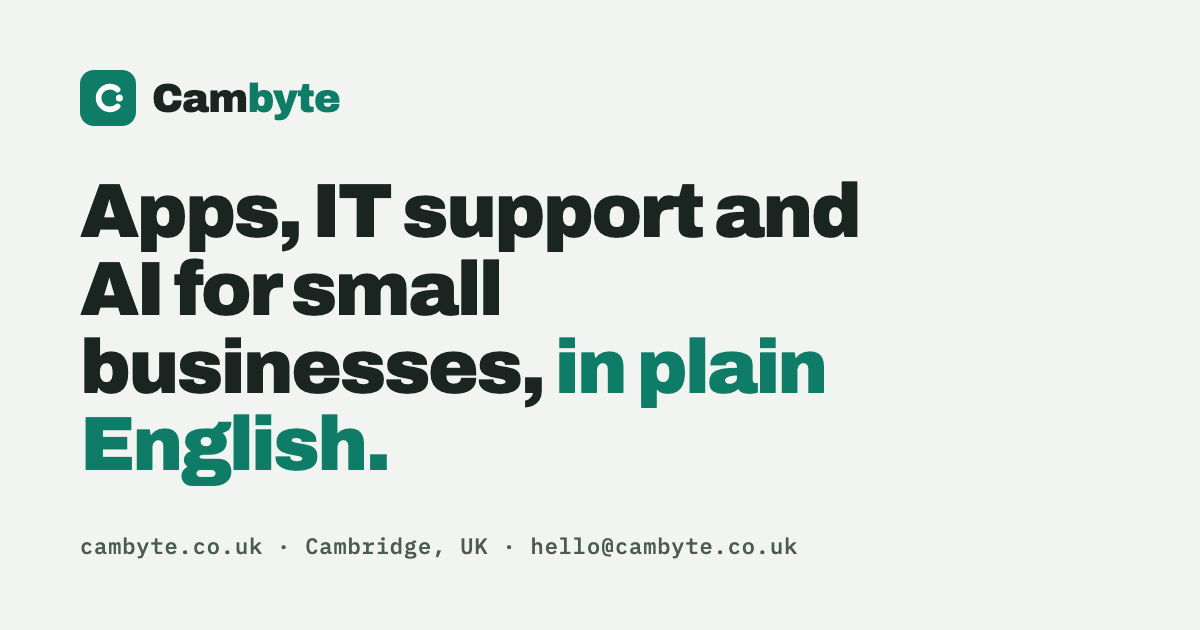
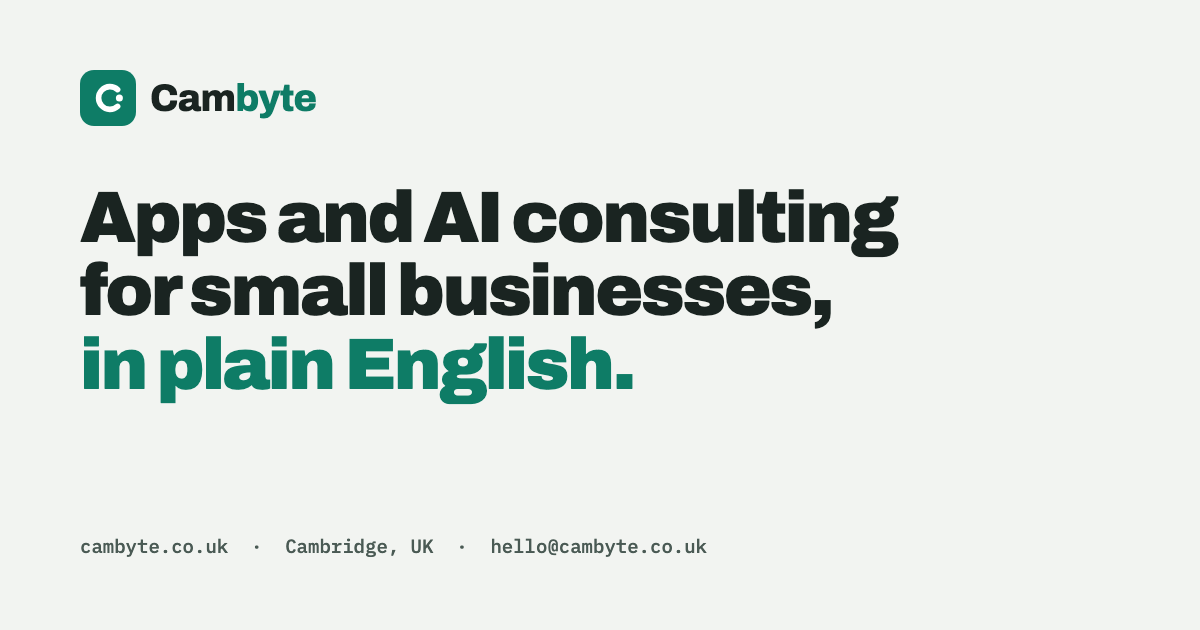
Drop IT support service; focus site on app development and AI consulting
- Remove IT support & setup card, hero/meta/JSON-LD mentions, repair creds
- Services grid 3 → 2 columns; copy adjusted ("Two things, done properly")
- Regenerate OG image without IT support line (source: docs/og-source.html)
- README: hosting note corrected to GitHub Pages

Changed region(s): [[0.0617, 0.2714, 0.7708, 0.7841], [0.0617, 0.8444, 0.6783, 0.9048], [0.1233, 0.1206, 0.3083, 0.2111]]

diff --git a/index.html b/index.html
@@ -3,12 +3,12 @@
 <head>
 <meta charset="UTF-8">
 <meta name="viewport" content="width=device-width, initial-scale=1">
-<title>Cambyte — Apps, IT support and AI for small businesses in Cambridge</title>
-<meta name="description" content="Cambyte builds iOS and Android apps, fixes and sets up IT, and helps small businesses in Cambridge put AI to work. Run by Roberto Pires Almeida, independent developer with an app live on the App Store.">
+<title>Cambyte — App development and AI consulting for small businesses in Cambridge</title>
+<meta name="description" content="Cambyte builds iOS and Android apps and helps small businesses in Cambridge put AI to work. Run by Roberto Pires Almeida, independent developer with an app live on the App Store.">
 <link rel="canonical" href="https://cambyte.co.uk/">
 <meta property="og:type" content="website">
-<meta property="og:title" content="Cambyte — Apps, IT support and AI, Cambridge UK">
-<meta property="og:description" content="App development, IT support and setup, and practical AI consulting for small businesses. Plain English, fixed quotes.">
+<meta property="og:title" content="Cambyte — Apps and AI consulting, Cambridge UK">
+<meta property="og:description" content="App development and practical AI consulting for small businesses. Plain English, fixed quotes.">
 <meta property="og:url" content="https://cambyte.co.uk/">
 <meta property="og:image" content="https://cambyte.co.uk/assets/img/og.png">
 <meta name="twitter:card" content="summary_large_image">
@@ -26,7 +26,7 @@
   "name": "Cambyte",
   "url": "https://cambyte.co.uk/",
   "email": "hello@cambyte.co.uk",
-  "description": "App development, IT support and AI consulting for small businesses in Cambridge, UK.",
+  "description": "App development and AI consulting for small businesses in Cambridge, UK.",
   "founder": {"@type": "Person", "name": "Roberto Pires Almeida"},
   "address": {"@type": "PostalAddress", "addressLocality": "Cambridge", "addressCountry": "GB"},
   "areaServed": "Cambridge, UK",
@@ -60,9 +60,9 @@
 
 <section class="hero">
   <div class="wrap">
-    <p class="eyebrow">Cambridge, UK · Apps · IT · AI</p>
+    <p class="eyebrow">Cambridge, UK · Apps · AI</p>
     <h1>Technology that works for your business, <em>not against it.</em></h1>
-    <p class="lede">Cambyte builds mobile apps, keeps your computers and network running, and helps you use AI for the boring parts of the job. One person you can actually talk to, in plain English, with a fixed quote before any work starts.</p>
+    <p class="lede">Cambyte builds mobile apps and helps you use AI for the boring parts of the job. One person you can actually talk to, in plain English, with a fixed quote before any work starts.</p>
     <div class="actions">
       <a class="btn btn-primary" href="#contact">Get in touch
         <svg width="18" height="18" viewBox="0 0 24 24" fill="none" stroke="currentColor" stroke-width="2.2" stroke-linecap="round" stroke-linejoin="round"><path d="M5 12h14M13 6l6 6-6 6"/></svg>
@@ -71,7 +71,7 @@
     </div>
     <ul class="trust">
       <li>App live on the App Store</li>
-      <li>Google IT Support &amp; Cybersecurity certified</li>
+      <li>Google Cybersecurity certified</li>
       <li>BSc Computer Science, University of London</li>
     </ul>
   </div>
@@ -81,10 +81,10 @@
   <div class="wrap">
     <div class="sec-head">
       <p class="eyebrow">Services</p>
-      <h2>Three things, done properly.</h2>
-      <p>Whether you need an app built, a laptop fixed or a repetitive task automated, you deal with the same person from first chat to finished job.</p>
+      <h2>Two things, done properly.</h2>
+      <p>Whether you need an app built or a repetitive task automated, you deal with the same person from first chat to finished job.</p>
     </div>
-    <div class="grid grid-3">
+    <div class="grid grid-2">
       <article class="card">
         <div class="icon" aria-hidden="true"><svg viewBox="0 0 24 24" fill="none" stroke="currentColor" stroke-width="2" stroke-linecap="round" stroke-linejoin="round"><rect x="6" y="2" width="12" height="20" rx="2.5"/><path d="M11 18h2"/></svg></div>
         <h3>App development</h3>
@@ -95,16 +95,6 @@
           <li>Updates, bug fixes and store screenshots after launch</li>
         </ul>
         <div class="links"><a href="/apps/">From £1,500 · see app pricing</a></div>
-      </article>
-      <article class="card">
-        <div class="icon" aria-hidden="true"><svg viewBox="0 0 24 24" fill="none" stroke="currentColor" stroke-width="2" stroke-linecap="round" stroke-linejoin="round"><rect x="2" y="4" width="20" height="13" rx="2"/><path d="M8 21h8M12 17v4"/></svg></div>
-        <h3>IT support &amp; setup</h3>
-        <p>Macs, Windows PCs, Wi-Fi and the small-business essentials, set up right and kept running.</p>
-        <ul>
-          <li>Repairs, upgrades and hardware diagnostics</li>
-          <li>Microsoft 365, email, backups and new-starter setups</li>
-          <li>Security hardening, password managers and recovery plans</li>
-        </ul>
       </article>
       <article class="card">
         <div class="icon" aria-hidden="true"><svg viewBox="0 0 24 24" fill="none" stroke="currentColor" stroke-width="2" stroke-linecap="round" stroke-linejoin="round"><path d="M12 3l1.8 4.6L18.5 9l-4.7 1.4L12 15l-1.8-4.6L5.5 9l4.7-1.4z"/><path d="M19 15l.8 2.2L22 18l-2.2.8L19 21l-.8-2.2L16 18l2.2-.8z"/></svg></div>
@@ -192,7 +182,7 @@
       <div class="step">
         <span class="num">01</span>
         <h3>A free chat</h3>
-        <p>Tell me what is slow, broken or missing. Thirty minutes by phone, video or over coffee in Cambridge. No obligation.</p>
+        <p>Tell me what you want to build or automate. Thirty minutes by phone, video or over coffee in Cambridge. No obligation.</p>
       </div>
       <div class="step">
         <span class="num">02</span>
@@ -201,7 +191,7 @@
       </div>
       <div class="step">
         <span class="num">03</span>
-        <h3>Build, fix, support</h3>
+        <h3>Build, ship, support</h3>
         <p>Regular updates in plain English while the work happens, a proper handover at the end, and ongoing support if you want it.</p>
       </div>
     </div>
@@ -215,12 +205,12 @@
       <div>
         <p class="eyebrow">About</p>
         <h2>Hi, I'm Roberto.</h2>
-        <p>I run Cambyte from Cambridge. I'm an independent developer with an app on the App Store, a Computer Science student at the University of London, and someone who has spent over ten years in public-sector roles explaining complicated things to people who just needed them sorted. That is the job here too: understand the problem, fix it properly, explain it clearly.</p>
+        <p>I run Cambyte from Cambridge. I'm an independent developer with an app on the App Store, a Computer Science student at the University of London, and someone who has spent over ten years in public-sector roles explaining complicated things to people who just needed them sorted. That is the job here too: understand the problem, build it properly, explain it clearly.</p>
         <p>I use AI tools every day to build and ship software faster, and I run my own local AI hardware, so when I recommend something it is because I have used it, not because it is fashionable.</p>
         <ul class="creds">
           <li><svg viewBox="0 0 24 24" fill="none" stroke="currentColor" stroke-width="2.2" stroke-linecap="round" stroke-linejoin="round" aria-hidden="true"><path d="M20 6L9 17l-5-5"/></svg>BSc Computer Science, University of London (Goldsmiths), specialising in Machine Learning &amp; AI</li>
-          <li><svg viewBox="0 0 24 24" fill="none" stroke="currentColor" stroke-width="2.2" stroke-linecap="round" stroke-linejoin="round" aria-hidden="true"><path d="M20 6L9 17l-5-5"/></svg>Google IT Support Professional Certificate and Google Cybersecurity Professional Certificate</li>
-          <li><svg viewBox="0 0 24 24" fill="none" stroke="currentColor" stroke-width="2.2" stroke-linecap="round" stroke-linejoin="round" aria-hidden="true"><path d="M20 6L9 17l-5-5"/></svg>Swift, Kotlin, Python, JavaScript, SQL; macOS, Windows and Linux; years of hands-on Mac and PC repair</li>
+          <li><svg viewBox="0 0 24 24" fill="none" stroke="currentColor" stroke-width="2.2" stroke-linecap="round" stroke-linejoin="round" aria-hidden="true"><path d="M20 6L9 17l-5-5"/></svg>Google Cybersecurity Professional Certificate</li>
+          <li><svg viewBox="0 0 24 24" fill="none" stroke="currentColor" stroke-width="2.2" stroke-linecap="round" stroke-linejoin="round" aria-hidden="true"><path d="M20 6L9 17l-5-5"/></svg>Swift, Kotlin, Python, JavaScript, SQL; macOS, Windows and Linux</li>
           <li><svg viewBox="0 0 24 24" fill="none" stroke="currentColor" stroke-width="2.2" stroke-linecap="round" stroke-linejoin="round" aria-hidden="true"><path d="M20 6L9 17l-5-5"/></svg>Based in Cambridge, UK. Full right to work, driving licence, own car.</li>
         </ul>
       </div>

diff --git a/docs/og-source.html b/docs/og-source.html
@@ -1,0 +1,16 @@
+<!DOCTYPE html><html lang="en-GB"><head><meta charset="UTF-8">
+<link href="https://fonts.googleapis.com/css2?family=Archivo:wght@800;900&family=IBM+Plex+Mono:wght@500&display=block" rel="stylesheet">
+<style>
+*{margin:0;padding:0;box-sizing:border-box}
+html,body{width:1200px;height:630px;overflow:hidden}
+body{background:#F2F4F1;color:#1A2421;font-family:'Archivo',system-ui,sans-serif;padding:70px 80px;position:relative}
+.logo{display:flex;align-items:center;gap:14px;font-weight:800;font-size:38px;letter-spacing:-.02em}
+.logo span{color:#0E7C66}.logo b{font-weight:800}
+h1{margin-top:56px;font-weight:900;font-size:72px;line-height:1.02;letter-spacing:-.035em;max-width:900px}
+h1 em{font-style:normal;color:#0E7C66}
+.foot{position:absolute;left:80px;bottom:72px;font-family:'IBM Plex Mono',ui-monospace,monospace;font-weight:500;font-size:19px;color:#4A5A54}
+</style></head><body>
+<div class="logo"><svg width="56" height="56" viewBox="0 0 32 32" aria-hidden="true"><rect width="32" height="32" rx="8" fill="#0E7C66"/><path d="M21.5 11.2A6.5 6.5 0 1 0 21.5 20.8" fill="none" stroke="#fff" stroke-width="3.2" stroke-linecap="round"/><circle cx="22.5" cy="16" r="2" fill="#fff"/></svg><b>Cam<span>byte</span></b></div>
+<h1>Apps and AI consulting<br>for small businesses,<br><em>in plain English.</em></h1>
+<div class="foot">cambyte.co.uk &nbsp;·&nbsp; Cambridge, UK &nbsp;·&nbsp; hello@cambyte.co.uk</div>
+</body></html>

diff --git a/README.md b/README.md
@@ -1,9 +1,9 @@
 # cambyte.co.uk
 
-Static site for Cambyte (apps, IT support, AI consulting — Cambridge, UK). No build step.
+Static site for Cambyte (app development, AI consulting — Cambridge, UK). No build step.
 
 ## Edit
-Change `index.html` / `privacy/index.html`, commit, push `main`. Cloudflare Pages redeploys in ~1 min.
+Change `index.html` / `apps/index.html` / `privacy/index.html`, commit, push `main`. **Live host is GitHub Pages** (custom domain cambyte.co.uk, Wix DNS A records) — redeploys in ~1 min. Cloudflare Pages below is a spare mirror only; see `HANDOVER.md`.
 
 Preview: `python3 -m http.server 8765` then open http://localhost:8765/
 
